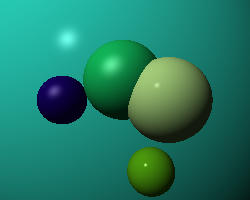
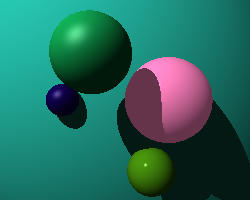
update shadow

diff --git a/src/light.rs b/src/light.rs
@@ -6,9 +6,9 @@ use rapier3d::na::{Point3, Vector3};
 use crate::{intersections::*, materials::Material, ray_rgb::RayRgb};
 
 pub struct PointLight {
-    color: RayRgb,
-    position: Point3<f32>,
-    intensity: usize,
+    pub color: RayRgb,
+    pub position: Point3<f32>,
+    pub intensity: usize,
 }
 
 impl PointLight {
@@ -27,11 +27,14 @@ pub fn lighting(
     point: Point3<f32>,
     eyev: Vector3<f32>,
     normalv: Vector3<f32>,
+    in_shadow: bool,
 ) -> RayRgb {
     let effective_color = material.color * light.intensity;
     let lightv = (light.position - point).normalize();
     let ambient = effective_color * material.ambient;
-
+    if in_shadow {
+        return ambient;
+    }
     let light_dot_normal = lightv.dot(&normalv);
 
     let reflectv;
@@ -66,7 +69,7 @@ fn test_lighting() {
     let light = PointLight::new(RayRgb::white(), Point3::new(0.0, 0.0, -10.0));
     let eyev = Vector3::new(0.0, 0.0, -1.0);
     let normalv = Vector3::new(0.0, 0.0, -1.0);
-    let result = lighting(&m, &light, position, eyev, normalv);
+    let result = lighting(&m, &light, position, eyev, normalv, false);
 
     assert_relative_eq!(result.r, 1.9, epsilon = 0.0001);
     assert_relative_eq!(result.g, 1.9, epsilon = 0.0001);
@@ -75,7 +78,7 @@ fn test_lighting() {
     let light = PointLight::new(RayRgb::white(), Point3::new(0.0, 0.0, -10.0));
     let normalv = Vector3::new(0.0, 0.0, -1.0);
     let eyev = Vector3::new(0.0, (2.0 as f32).sqrt() / 2.0, -(2.0 as f32).sqrt() / 2.0);
-    let result = lighting(&m, &light, position, eyev, normalv);
+    let result = lighting(&m, &light, position, eyev, normalv, false);
 
     assert_relative_eq!(result.r, 1.0, epsilon = 0.0001);
     assert_relative_eq!(result.g, 1.0, epsilon = 0.0001);
@@ -84,7 +87,7 @@ fn test_lighting() {
     let light = PointLight::new(RayRgb::white(), Point3::new(0.0, 10.0, -10.0));
     let eyev = Vector3::new(0.0, 0.0, -1.0);
     let normalv = Vector3::new(0.0, 0.0, -1.0);
-    let result = lighting(&m, &light, position, eyev, normalv);
+    let result = lighting(&m, &light, position, eyev, normalv, false);
 
     assert_relative_eq!(result.r, 0.7364, epsilon = 0.0001);
     assert_relative_eq!(result.g, 0.7364, epsilon = 0.0001);
@@ -93,7 +96,7 @@ fn test_lighting() {
     let light = PointLight::new(RayRgb::white(), Point3::new(0.0, 10.0, -10.0));
     let eyev = Vector3::new(0.0, -(2.0 as f32).sqrt() / 2.0, -(2.0 as f32).sqrt() / 2.0);
     let normalv = Vector3::new(0.0, 0.0, -1.0);
-    let result = lighting(&m, &light, position, eyev, normalv);
+    let result = lighting(&m, &light, position, eyev, normalv, false);
 
     assert_relative_eq!(result.r, 1.6364, epsilon = 0.0001);
     assert_relative_eq!(result.g, 1.6364, epsilon = 0.0001);
@@ -102,7 +105,16 @@ fn test_lighting() {
     let light = PointLight::new(RayRgb::white(), Point3::new(0.0, 0.0, 10.0));
     let eyev = Vector3::new(0.0, 0.0, -1.0);
     let normalv = Vector3::new(0.0, 0.0, -1.0);
-    let result = lighting(&m, &light, position, eyev, normalv);
+    let result = lighting(&m, &light, position, eyev, normalv, false);
+
+    assert_relative_eq!(result.r, 0.1, epsilon = 0.0001);
+    assert_relative_eq!(result.g, 0.1, epsilon = 0.0001);
+    assert_relative_eq!(result.b, 0.1, epsilon = 0.0001);
+
+    let light = PointLight::new(RayRgb::white(), Point3::new(0.0, 0.0, -10.0));
+    let eyev = Vector3::new(0.0, 0.0, -1.0);
+    let normalv = Vector3::new(0.0, 0.0, -1.0);
+    let result = lighting(&m, &light, position, eyev, normalv, true);
 
     assert_relative_eq!(result.r, 0.1, epsilon = 0.0001);
     assert_relative_eq!(result.g, 0.1, epsilon = 0.0001);

diff --git a/src/world.rs b/src/world.rs
@@ -16,15 +16,16 @@ impl Default for World {
     fn default() -> Self {
         let light = PointLight::new(RayRgb::white(), Point3::new(-10.0, 10.0, -10.0));
         let mut sphere1 = Sphere::new(Point3::new(0.0, 0.0, 0.0), 1.0);
-        sphere1.material.color = RayRgb::new(0.8, 1.0, 0.6);
-        sphere1.material.diffuse = 0.7;
-        sphere1.material.specular = 0.2;
-        let mut sphere2 = Sphere::new(Point3::new(0.0, 0.0, 0.0), 0.5);
-        sphere2.scale = Scale3::new(0.5, 0.5, 0.5);
+        sphere1.material.color = RayRgb::new(0.8, 0.4, 0.6);
+        sphere1.material.diffuse = 0.9;
+        sphere1.material.specular = 0.4;
+        sphere1.material.ambient = 0.5;
+        // let mut sphere2 = Sphere::new(Point3::new(0.0, 0.0, 0.0), 0.5);
+        // sphere2.scale = Scale3::new(0.5, 0.5, 0.5);
 
         Self {
             lights: vec![light],
-            objects: vec![sphere1, sphere2],
+            objects: vec![sphere1],
         }
     }
 }
@@ -45,12 +46,14 @@ pub fn intersect_world<'a>(world: &'a World, ray: &Ray) -> Vec<Intersection<'a>>
 }
 
 pub fn shade_hit(world: &World, comps: &Computation) -> RayRgb {
+    let shadowed = is_shadowed(&world, &comps.over_point);
     lighting(
         &comps.object.material,
         &world.lights[0],
-        comps.point,
+        comps.over_point,
         comps.eyev,
         comps.normalv,
+        shadowed,
     )
 }
 
@@ -63,6 +66,21 @@ pub fn color_at(world: &World, ray: &Ray) -> RayRgb {
         return color;
     }
     RayRgb::black()
+}
+
+pub fn is_shadowed(world: &World, point: &Point3<f32>) -> bool {
+    let v = world.lights[0].position - point;
+    let distance = v.magnitude();
+    let direction = v.normalize();
+    let r = Ray::new(point.clone(), direction);
+    let intersections = intersect_world(&world, &r);
+    let intersections: Vec<Intersection> =
+        intersections.into_iter().filter(|&i| i.t >= 0.0).collect();
+
+    if intersections.len() > 0 && intersections[0].t < distance {
+        return true;
+    }
+    false
 }
 
 #[test]
@@ -118,4 +136,27 @@ fn test_look_at() {
     let m = Isometry3::look_at_rh(&from, &to, &up);
 
     println!("{}", m.to_matrix());
+}
+
+#[test]
+fn test_is_shadowed() {
+    let w = World::default();
+    let p = Point3::new(0.0, 10.0, 0.0);
+    let s = is_shadowed(&w, &p);
+    assert_eq!(s, false);
+
+    let w = World::default();
+    let p = Point3::new(10.0, -10.0, 10.0);
+    let s = is_shadowed(&w, &p);
+    assert_eq!(s, true);
+
+    let w = World::default();
+    let p = Point3::new(-20.0, 20.0, -20.0);
+    let s = is_shadowed(&w, &p);
+    assert_eq!(s, false);
+
+    let w = World::default();
+    let p = Point3::new(-2.0, 2.0, -2.0);
+    let s = is_shadowed(&w, &p);
+    assert_eq!(s, false);
 }

diff --git a/src/main.rs b/src/main.rs
@@ -2,7 +2,7 @@ use std::f32::consts::PI;
 
 use image::Rgb;
 use rapier3d::{
-    na::{Isometry3, Point3, Vector3},
+    na::{Isometry3, Point3, Translation3, UnitDualQuaternion, Vector3},
     prelude::*,
 };
 use ray_tracer::{
@@ -19,7 +19,8 @@ fn main() {
     m.material.diffuse = 0.6;
     m.material.specular = 0.3;
     m.material.shininess = 10;
-    m.center = Point3::new(-0.5, 1.0, 0.5);
+    m.radius = 0.7;
+    m.center = Point3::new(-0.8, 1.7, -1.2);
     w.objects.push(m);
     let mut r = Sphere::default();
     r.material.color = RayRgb::new(0.5, 1.0, 0.1);
@@ -43,7 +44,8 @@ fn main() {
     q.material.specular = 0.3;
     q.material.shininess = 10;
     q.center = Point3::new(0.0, 2.5, 0.5);
-    q.radius = 0.6;
+
+    q.radius = 0.4;
     w.objects.push(q);
 
     let mut camera = Camera::new(200, 250, PI / 3.0);

diff --git a/src/computation.rs b/src/computation.rs
@@ -10,6 +10,7 @@ pub struct Computation<'a> {
     pub eyev: Vector3<f32>,
     pub normalv: Vector3<f32>,
     pub inside: bool,
+    pub over_point: Point3<f32>,
 }
 impl<'a> Computation<'a> {
     pub fn new(
@@ -18,6 +19,7 @@ impl<'a> Computation<'a> {
         point: Point3<f32>,
         eyev: Vector3<f32>,
         normalv: Vector3<f32>,
+        over_point: Point3<f32>,
     ) -> Self {
         Self {
             t,
@@ -26,6 +28,7 @@ impl<'a> Computation<'a> {
             eyev,
             normalv,
             inside: false,
+            over_point,
         }
     }
 }

diff --git a/src/intersections.rs b/src/intersections.rs
@@ -1,3 +1,5 @@
+use std::f32::EPSILON;
+
 #[cfg(test)]
 use approx::assert_relative_eq;
 use rapier3d::{
@@ -80,14 +82,16 @@ pub fn prepare_computations<'a>(intersection: &'a Intersection, ray: &Ray) -> Co
         point,
         -ray.dir,
         normalv,
+        Point3::new(0.0, 0.0, 0.0),
     );
+
     if normalv.dot(&comps.eyev) < 0.0 {
         comps.inside = true;
         comps.normalv = -comps.normalv;
     } else {
         comps.inside = false;
     }
-
+    comps.over_point = comps.point + comps.normalv * EPSILON * 100.0;
     comps
 }
 
